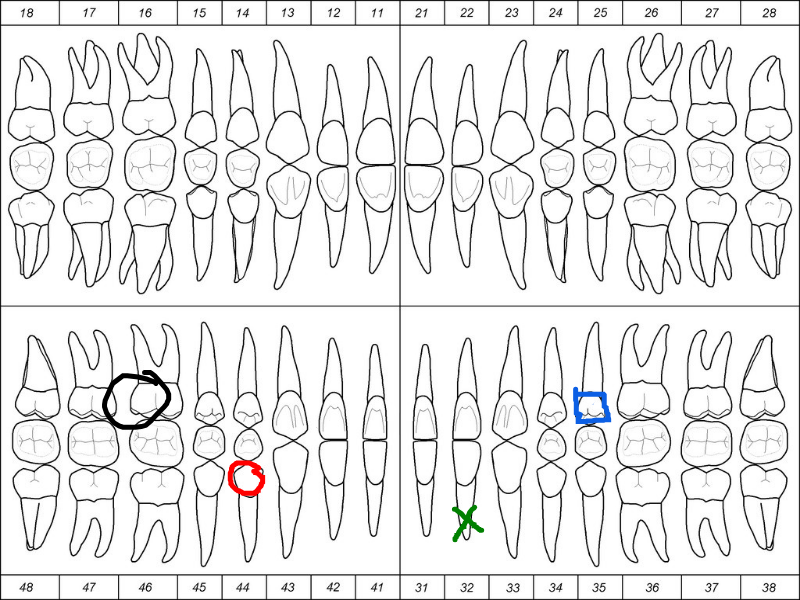
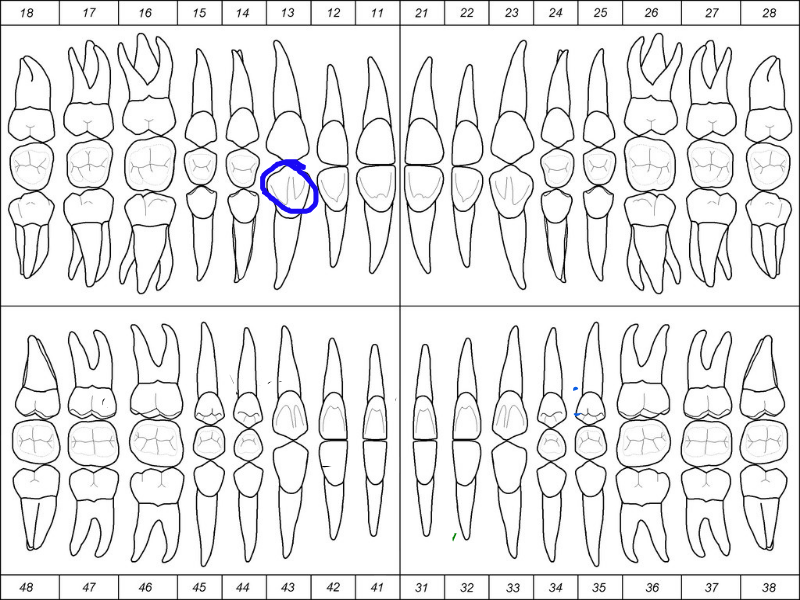
Crregar imagem feito

diff --git a/Frontend/src/components/PaintComponent.jsx b/Frontend/src/components/PaintComponent.jsx
@@ -1,8 +1,8 @@
-import React, { useRef, useEffect, useState } from 'react';
+import React, { useRef, useEffect, useState, useCallback } from 'react';
 import styles from './PaintComponent.module.css';
 const API_URL = import.meta.env.VITE_API_URL;
 
-const Paint = ({ cpf, selectedImageIndex, onImagesChange }) => {
+const Paint = ({ cpf, selectedImageIndex, onImagesChange, imagesCount }) => {
   const canvasRef = useRef(null);
   const ctxRef = useRef(null);
   
@@ -38,6 +38,11 @@ const Paint = ({ cpf, selectedImageIndex, onImagesChange }) => {
   
   // Referência para a imagem do odontograma (fundo permanente)
   const odontogramImageRef = useRef(null);
+  
+  // Referência para a imagem externa carregada
+  const externalImageRef = useRef(null);
+  // Informações de posicionamento da imagem externa
+  const externalImageDrawInfo = useRef(null);
   
   // Função para carregar e desenhar o fundo do odontograma
   const drawOdontogramBackground = (ctx, canvas) => {
@@ -99,8 +104,8 @@ const Paint = ({ cpf, selectedImageIndex, onImagesChange }) => {
     });
   };
   
-  // Carrega imagens do localStorage usando o cpf
-  useEffect(() => {
+  // Função para carregar imagens do backend
+  const loadImages = useCallback(() => {
     if (cpf) {
       // Recupera imagens do backend
       fetch(`${API_URL}/get_images?cpf=${cpf}`)
@@ -109,13 +114,30 @@ const Paint = ({ cpf, selectedImageIndex, onImagesChange }) => {
           if (data && data.images && data.images.length > 0) {
             // Ordena as imagens das mais recentes para as mais antigas
             const sortedImages = sortImagesByDate(data.images);
-            setSavedImages(sortedImages);
-            // Sempre mostra a imagem mais recente (primeira do array ordenado)
-            setCurrentImageIndex(0);
+            setSavedImages(prevImages => {
+              // Ajusta o índice atual se necessário
+              setCurrentImageIndex(prevIndex => {
+                if (prevIndex >= sortedImages.length) {
+                  // Se o índice atual é maior que o número de imagens, ajusta para a última
+                  return Math.max(0, sortedImages.length - 1);
+                } else if (prevIndex < 0 && sortedImages.length > 0) {
+                  // Se o índice é inválido mas há imagens, define para a primeira
+                  return 0;
+                }
+                return prevIndex;
+              });
+              return sortedImages;
+            });
+            
             setShouldLoadDefault(false);
+            
+            // Atualiza o localStorage também
+            localStorage.setItem(`paint_${cpf}`, JSON.stringify(sortedImages));
           } else {
             // Se não houver imagens, marca para carregar a imagem padrão
             setShouldLoadDefault(true);
+            setCurrentImageIndex(0);
+            setSavedImages([]);
           }
         })
         .catch(err => {
@@ -123,32 +145,20 @@ const Paint = ({ cpf, selectedImageIndex, onImagesChange }) => {
           // Em caso de erro, marca para carregar a imagem padrão
           setShouldLoadDefault(true);
         });
-
-      // Recupera imagens do localStorage (opcional, como fallback)
-      const localData = localStorage.getItem(`paint_${cpf}`);
-      if (localData) {
-        try {
-          const parsedImages = JSON.parse(localData);
-          if (parsedImages && parsedImages.length > 0) {
-            // Ordena as imagens do localStorage também
-            const sortedLocalImages = sortImagesByDate(parsedImages);
-            setSavedImages(sortedLocalImages);
-            // Sempre mostra a imagem mais recente (primeira do array ordenado)
-            setCurrentImageIndex(0);
-            setShouldLoadDefault(false);
-          } else {
-            setShouldLoadDefault(true);
-          }
-        } catch (e) {
-          console.error("Erro ao carregar imagens salvas:", e);
-          setShouldLoadDefault(true);
-        }
-      } else {
-        // Se não houver dados no localStorage, marca para carregar a imagem padrão
-        setShouldLoadDefault(true);
-      }
     }
   }, [cpf]);
+
+  // Carrega imagens quando o cpf muda
+  useEffect(() => {
+    loadImages();
+  }, [loadImages]);
+
+  // Recarrega imagens quando o número de imagens na galeria muda (indica que houve deleção)
+  useEffect(() => {
+    if (imagesCount !== undefined && imagesCount !== savedImages.length) {
+      loadImages();
+    }
+  }, [imagesCount, savedImages.length, loadImages]);
   
   // Configura os botões de ferramentas
   useEffect(() => {
@@ -249,9 +259,7 @@ const Paint = ({ cpf, selectedImageIndex, onImagesChange }) => {
           // Só atualiza se não estiver salvando
           if (!isSavingRef.current) {
             ctx.clearRect(0, 0, canvas.width, canvas.height);
-            // Primeiro desenha o fundo do odontograma
-            drawOdontogramBackground(ctx, canvas);
-            // Depois desenha a imagem salva por cima
+            // Desenha a imagem salva diretamente (ela já contém tudo)
             ctx.drawImage(img, 0, 0, canvas.width, canvas.height);
           }
         };
@@ -277,13 +285,80 @@ const Paint = ({ cpf, selectedImageIndex, onImagesChange }) => {
   }, [selectedImageIndex, savedImages.length]);
   
   
-  // Função para tratar mudança de background via upload
+  // Função para carregar imagem externa e abrir em modo de edição
   const handleBackgroundChange = (e) => {
     const file = e.target.files[0];
     if (file) {
       const reader = new FileReader();
-      reader.onload = (event) => setBackgroundImage(event.target.result);
+      reader.onload = (event) => {
+        const imageData = event.target.result;
+        
+        // Carrega a imagem no canvas
+        const img = new Image();
+        img.crossOrigin = 'anonymous';
+        img.onload = () => {
+          const canvas = canvasRef.current;
+          const ctx = ctxRef.current;
+          if (canvas && ctx) {
+            // Salva a referência da imagem externa
+            externalImageRef.current = img;
+            
+            // Limpa o canvas
+            ctx.clearRect(0, 0, canvas.width, canvas.height);
+            
+            // Desenha fundo branco
+            ctx.fillStyle = '#FFFFFF';
+            ctx.fillRect(0, 0, canvas.width, canvas.height);
+            
+            // Desenha a imagem carregada por cima
+            // Calcula as dimensões para manter a proporção e centralizar
+            const imgAspect = img.width / img.height;
+            const canvasAspect = canvas.width / canvas.height;
+            
+            let drawWidth, drawHeight, drawX, drawY;
+            
+            if (imgAspect > canvasAspect) {
+              // Imagem é mais larga - ajusta pela largura
+              drawWidth = canvas.width;
+              drawHeight = canvas.width / imgAspect;
+              drawX = 0;
+              drawY = (canvas.height - drawHeight) / 2;
+            } else {
+              // Imagem é mais alta - ajusta pela altura
+              drawHeight = canvas.height;
+              drawWidth = canvas.height * imgAspect;
+              drawX = (canvas.width - drawWidth) / 2;
+              drawY = 0;
+            }
+            
+            ctx.drawImage(img, drawX, drawY, drawWidth, drawHeight);
+            
+            // Salva as informações de posicionamento para usar na borracha
+            externalImageDrawInfo.current = { drawX, drawY, drawWidth, drawHeight };
+            
+            // Captura snapshot como base da undoStack
+            const baseSnapshot = ctx.getImageData(0, 0, canvas.width, canvas.height);
+            setUndoStack([baseSnapshot]);
+            
+            // Limpa o estado de edição para que salve como nova imagem
+            setEditingImageTimestamp(null);
+            
+            // Habilita o modo de edição automaticamente
+            setDrawingEnabled(true);
+          }
+        };
+        img.onerror = () => {
+          alert('Erro ao carregar a imagem. Por favor, tente novamente.');
+        };
+        img.src = imageData;
+      };
+      reader.onerror = () => {
+        alert('Erro ao ler o arquivo. Por favor, tente novamente.');
+      };
       reader.readAsDataURL(file);
+      
+      // Limpa o input para permitir carregar o mesmo arquivo novamente
+      e.target.value = '';
     }
   };
   
@@ -550,9 +625,18 @@ const handleEditSaveToggle = () => {
                       : sortedImages[0].image;
                     img.src = imageToLoad;
                     img.onload = () => {
-                      // Primeiro desenha o fundo do odontograma
                       ctx.clearRect(0, 0, canvas.width, canvas.height);
-                      drawOdontogramBackground(ctx, canvas);
+                      // Se houver imagem externa como fundo, mantém ela; senão usa odontograma
+                      if (externalImageRef.current && externalImageDrawInfo.current) {
+                        // Desenha fundo branco + imagem externa
+                        ctx.fillStyle = '#FFFFFF';
+                        ctx.fillRect(0, 0, canvas.width, canvas.height);
+                        const { drawX, drawY, drawWidth, drawHeight } = externalImageDrawInfo.current;
+                        ctx.drawImage(externalImageRef.current, drawX, drawY, drawWidth, drawHeight);
+                      } else {
+                        // Desenha o odontograma
+                        drawOdontogramBackground(ctx, canvas);
+                      }
                       // Depois desenha a imagem salva por cima
                       ctx.drawImage(img, 0, 0, canvas.width, canvas.height);
                       // Libera a flag de salvamento após carregar a imagem
@@ -643,9 +727,18 @@ const handleEditSaveToggle = () => {
                     img.crossOrigin = 'anonymous';
                     img.src = sortedImages[0].image;
                     img.onload = () => {
-                      // Primeiro desenha o fundo do odontograma
                       ctx.clearRect(0, 0, canvas.width, canvas.height);
-                      drawOdontogramBackground(ctx, canvas);
+                      // Se houver imagem externa como fundo, mantém ela; senão usa odontograma
+                      if (externalImageRef.current && externalImageDrawInfo.current) {
+                        // Desenha fundo branco + imagem externa
+                        ctx.fillStyle = '#FFFFFF';
+                        ctx.fillRect(0, 0, canvas.width, canvas.height);
+                        const { drawX, drawY, drawWidth, drawHeight } = externalImageDrawInfo.current;
+                        ctx.drawImage(externalImageRef.current, drawX, drawY, drawWidth, drawHeight);
+                      } else {
+                        // Desenha o odontograma
+                        drawOdontogramBackground(ctx, canvas);
+                      }
                       // Depois desenha a imagem salva por cima
                       ctx.drawImage(img, 0, 0, canvas.width, canvas.height);
                       // Libera a flag de salvamento após carregar a imagem
@@ -684,6 +777,9 @@ const handleEditSaveToggle = () => {
     }
   } else {
     // Modo editar: carrega a imagem selecionada (currentImageIndex) para edição
+    // NÃO limpa a referência da imagem externa aqui - ela deve ser mantida como fundo
+    // A referência só será limpa quando o usuário carregar uma nova imagem ou usar "Criar"
+    
     if (savedImages.length > 0 && currentImageIndex >= 0 && currentImageIndex < savedImages.length) {
       // Usa a imagem selecionada (currentImageIndex) para editar
       const selectedImage = savedImages[currentImageIndex];
@@ -695,11 +791,9 @@ const handleEditSaveToggle = () => {
         const canvas = canvasRef.current;
         const ctx = ctxRef.current;
         ctx.clearRect(0, 0, canvas.width, canvas.height);
-        // Primeiro desenha o fundo do odontograma
-        drawOdontogramBackground(ctx, canvas);
-        // Depois desenha a imagem salva por cima
+        // Desenha a imagem salva diretamente (ela já contém tudo: fundo + imagem + desenhos)
         ctx.drawImage(img, 0, 0, canvas.width, canvas.height);
-        // Agora que o background foi desenhado, capture essa snapshot como base da undoStack.
+        // Captura o snapshot como base da undoStack (contém a imagem completa)
         const baseSnapshot = ctx.getImageData(0, 0, canvas.width, canvas.height);
         setUndoStack([baseSnapshot]);
       };
@@ -752,6 +846,10 @@ const handleEditSaveToggle = () => {
 
   // Função para criar uma nova imagem baseada na selecionada
   const handleCreate = () => {
+    // Limpa a referência da imagem externa ao criar nova imagem
+    externalImageRef.current = null;
+    externalImageDrawInfo.current = null;
+    
     if (savedImages.length > 0 && currentImageIndex >= 0 && currentImageIndex < savedImages.length) {
       // Carrega a imagem selecionada como base
       const selectedImage = savedImages[currentImageIndex];
@@ -763,9 +861,7 @@ const handleEditSaveToggle = () => {
         const canvas = canvasRef.current;
         const ctx = ctxRef.current;
         ctx.clearRect(0, 0, canvas.width, canvas.height);
-        // Primeiro desenha o fundo do odontograma
-        drawOdontogramBackground(ctx, canvas);
-        // Depois desenha a imagem selecionada por cima como base
+        // Desenha a imagem selecionada diretamente (ela já contém tudo)
         ctx.drawImage(img, 0, 0, canvas.width, canvas.height);
         // Captura snapshot como base da undoStack
         const baseSnapshot = ctx.getImageData(0, 0, canvas.width, canvas.height);
@@ -870,7 +966,15 @@ const handleEditSaveToggle = () => {
             <button className={styles.undoButton} onClick={handleUndo} disabled={!drawingEnabled || undoStack.length <= 1}>
               Undo
             </button>
-            <input type="file" accept="image/*" onChange={handleBackgroundChange} />
+            <label className={styles.uploadButton}>
+              <input 
+                type="file" 
+                accept="image/*" 
+                onChange={handleBackgroundChange}
+                style={{ display: 'none' }}
+              />
+              Carregar Imagem
+            </label>
           </div>
         </section>
         <section className={styles.drawingboard}>

diff --git a/Frontend/src/components/PaintComponent.module.css b/Frontend/src/components/PaintComponent.module.css
@@ -236,4 +236,25 @@
     cursor: not-allowed;
     opacity: 0.6;
 }
+
+.buttons .uploadButton {
+    display: block;
+    width: 100%;
+    color: #fff;
+    border: 1px solid #17a2b8;
+    background: #17a2b8;
+    outline: none;
+    padding: 11px 0;
+    font-size: 0.9rem;
+    margin-bottom: 13px;
+    border-radius: 5px;
+    cursor: pointer;
+    text-align: center;
+    transition: all 0.3s ease;
+}
+
+.uploadButton:hover {
+    background: #138496;
+    border-color: #117a8b;
+}
   

diff --git a/Frontend/src/pages/PatientDetails.jsx b/Frontend/src/pages/PatientDetails.jsx
@@ -316,7 +316,12 @@ export function PatientDetails() {
           Ver Orçamentos e Pagamentos
         </button>
       </div>
-      <Paint cpf={cpf} selectedImageIndex={selectedImageIndex} onImagesChange={fetchImages}/>
+      <Paint 
+        cpf={cpf} 
+        selectedImageIndex={selectedImageIndex} 
+        onImagesChange={fetchImages}
+        imagesCount={images.length}
+      />
       
       {/* Galeria de Imagens */}
       {images.length > 0 && (
